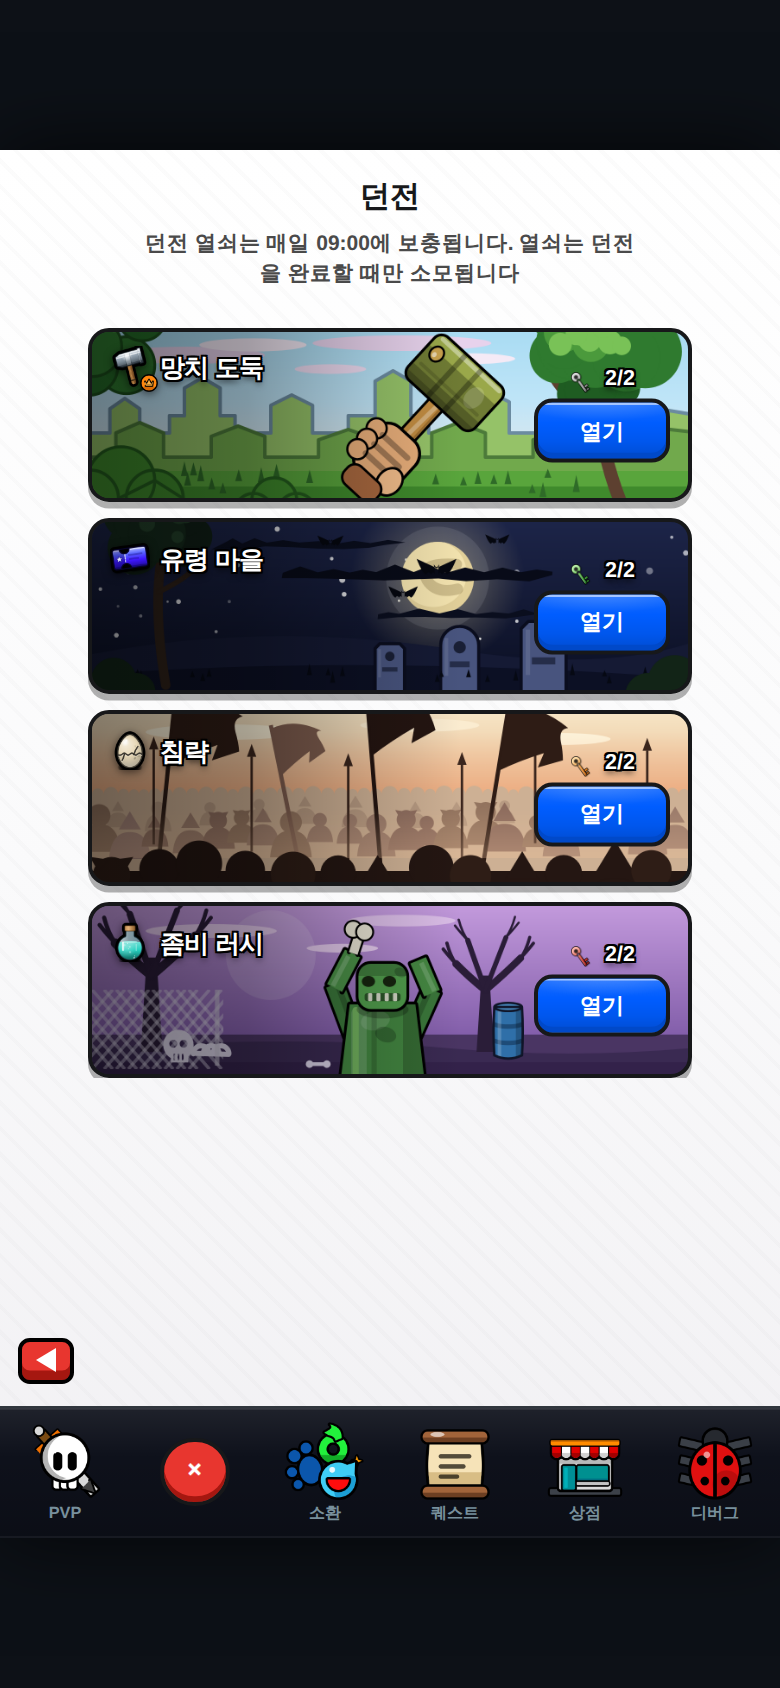
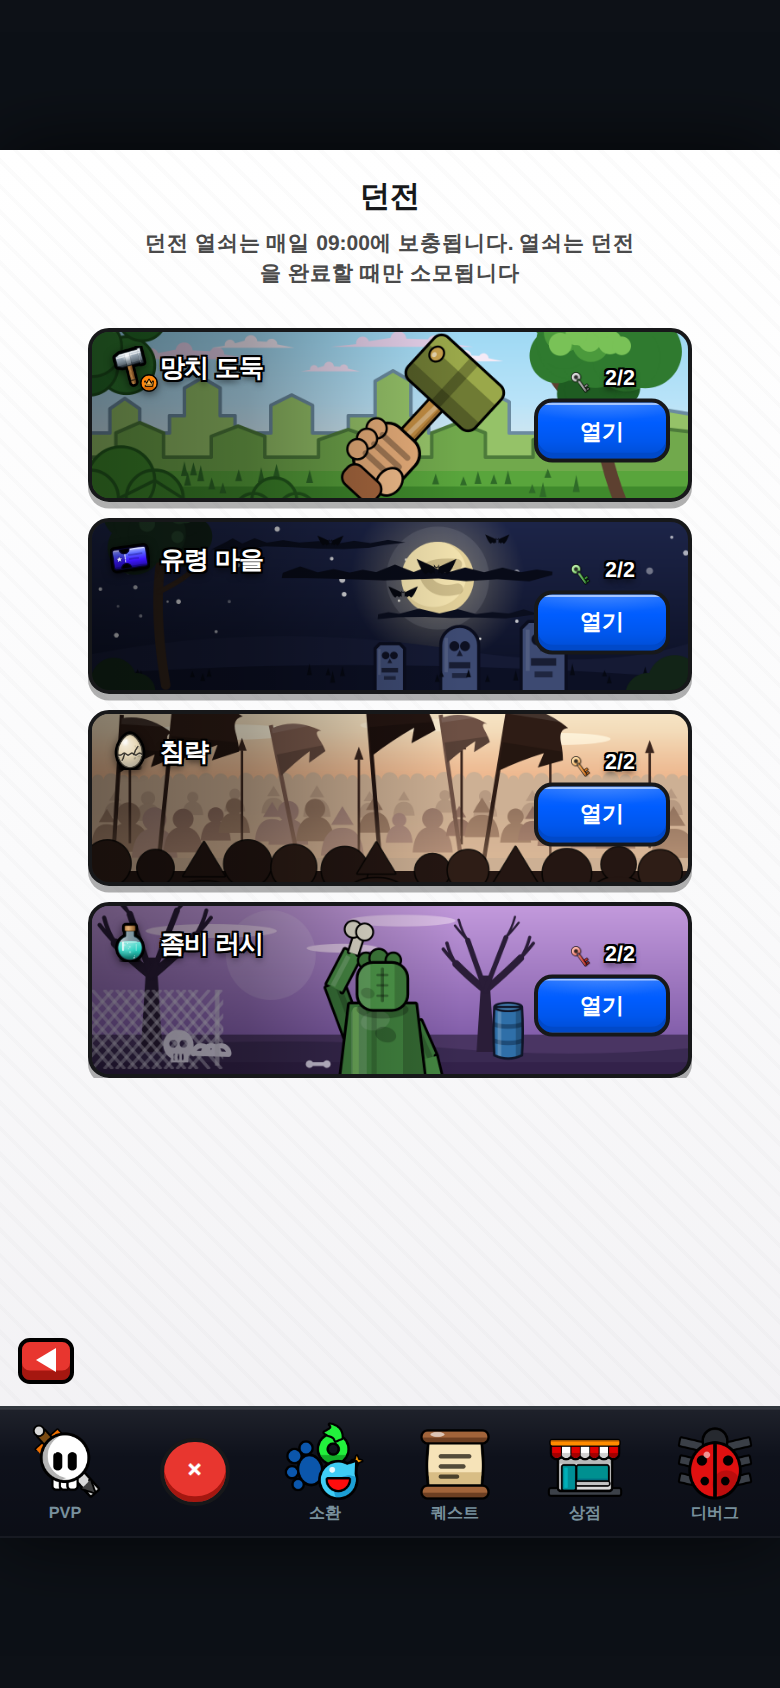
던전 행 재채점 6차 반영 — 망치 타탄 격자 제거·좀비 뒷모습 재조형·군중 0.40H 상향+앞열 키라인·배너 6장 2톤 주름·묘비 해골/RIP 각인 강화·뭉게 구름 (dungeon-row-quality)
6차 비평가(63/58, 둘 다 확대 크롭 정밀 검수) 공통 지적 반영:
⑴ 망치 머리 — 하이라이트 띠+물림 테 2줄+결 줄+스펙큘러가 교차해 '타탄 직물'로 읽힘 → 3면 셰이딩+물림 테 1줄만
⑵ 좀비 — 점눈+이빨 정면 만세('귀여운 로봇')를 원본대로 **뒷모습**으로: 얼굴 제거, 뒤통수 스티치 흉터+머리털 혹 3개+좌우 명암, 오른팔은 몸 옆으로 내림(뼈 든 왼팔만 위)
⑶ 침략 — 군중 시작선 0.48→0.40H('인파의 바다'), 앞 열 검정 키라인+어깨 폭 변주(스캘럽 무늬 해소), 배너 4→6장+천 주름 2톤(위 밝게/아래 그늘)
⑷ 묘비 — 채도 가라앉히고 해골(두 눈+코)·RIP 2줄 각인 키움 ⑸ 1행 구름을 혹 3개 뭉게 윤곽으로(타원 스티커 해소)
검증: probe-dungeons-px -0.99%p·초과 0, probe-dungeon-title-ink 4행 통과(침략 좌반 84.9), 콘솔 에러 0

diff --git a/web/js/icongen.js b/web/js/icongen.js
@@ -3672,14 +3672,24 @@ IconGen._genderSym = function (ctx, S, female) {
        ('망치가 수직으로 박힌 정지 구도 + 손이 없다'). */
     G.draw.dg_hammer = function (ctx, S) {
         const W = S * AR, H = S, R = rnd(11);
-        sky(ctx, W, H, '#a9dcf3', '#dff2ff');
-        // 구름 줄 — 원본의 분홍-라벤더 가로 스트릭. 제목(좌상단)과 겹쳐도 키라인 제목이 이긴다.
-        const cloud = (cx, cy, cw, chh, c) => fill(ctx, c, () => ctx.ellipse(cx, cy, cw, chh, 0, 0, Math.PI * 2));
-        cloud(W * 0.16, H * 0.15, W * 0.13, H * 0.050, '#e7d2ec');
-        cloud(W * 0.27, H * 0.09, W * 0.09, H * 0.038, '#f4eaf6');
-        cloud(W * 0.52, H * 0.08, W * 0.15, H * 0.045, '#e7d2ec');
-        cloud(W * 0.63, H * 0.17, W * 0.08, H * 0.032, '#f4eaf6');
-        cloud(W * 0.40, H * 0.23, W * 0.06, H * 0.028, '#eedcf2');
+        sky(ctx, W, H, '#9ed9f4', '#dff2ff');
+        /* 구름 — 납작한 타원 하나면 '분홍 스티커'로 읽힌다(비평가 6차): 혹 3~4개를 겹친 뭉게
+           윤곽 + 아래는 평평하게. 원본의 분홍-라벤더 구름 줄. */
+        const cloud = (cx, cy, cw, chh, c) => {
+            fill(ctx, c, () => {
+                ctx.moveTo(cx - cw, cy + chh * 0.5);
+                ctx.arc(cx - cw * 0.55, cy, chh * 0.9, Math.PI * 0.95, Math.PI * 1.9);
+                ctx.arc(cx - cw * 0.05, cy - chh * 0.55, chh * 1.1, Math.PI * 1.05, Math.PI * 1.98);
+                ctx.arc(cx + cw * 0.45, cy - chh * 0.10, chh * 0.95, Math.PI * 1.15, Math.PI * 2);
+                ctx.lineTo(cx + cw, cy + chh * 0.5);
+                ctx.closePath();
+            });
+        };
+        cloud(W * 0.16, H * 0.15, W * 0.11, H * 0.045, '#e7d2ec');
+        cloud(W * 0.27, H * 0.09, W * 0.07, H * 0.034, '#f4eaf6');
+        cloud(W * 0.52, H * 0.08, W * 0.12, H * 0.042, '#e7d2ec');
+        cloud(W * 0.63, H * 0.17, W * 0.06, H * 0.030, '#f4eaf6');
+        cloud(W * 0.40, H * 0.23, W * 0.05, H * 0.026, '#eedcf2');
         (() => {                                                          // 지평선 웜톤 — 하늘이 2단 그라디언트로 납작하지 않게(비평가 재채점)
             const hz = ctx.createLinearGradient(0, H * 0.42, 0, H * 0.82);
             hz.addColorStop(0, 'rgba(255,214,188,0)'); hz.addColorStop(1, 'rgba(255,214,188,.30)');
@@ -3795,14 +3805,12 @@ IconGen._genderSym = function (ctx, S, female) {
         ink(ctx, S, rrect(ctx, S, -0.160, -0.255, 0.320, 0.510, 0.050), '#6f7b34', 0.032);
         ctx.save();
         ctx.beginPath(); rrect(ctx, S, -0.160, -0.255, 0.320, 0.510, 0.050)(); ctx.clip();
+        /* ⚠ 하이라이트 띠+물림 테 2줄+결 줄+스펙큘러를 다 얹으면 가로세로 선이 교차해 **타탄
+           격자 직물**로 읽힌다(비평가 6차 2인 공통 1순위 — 확대 크롭으로 확인). 3면 셰이딩과
+           물림 테 하나만 남긴다. */
         on(ctx, rrect(ctx, S, 0.064, -0.255, 0.096, 0.510, 0), '#9aa84a');                // 위(빛 받는) 면 — local +x 가 회전 후 우상향
-        on(ctx, rrect(ctx, S, 0.126, -0.235, 0.026, 0.470, 0.013), 'rgba(255,255,255,.40)'); // 스펙큘러 라인(베벨 입체 — 비평가 재채점)
         on(ctx, rrect(ctx, S, -0.160, -0.255, 0.084, 0.510, 0), 'rgba(0,0,0,.24)');       // 아랫면 음영
-        on(ctx, rrect(ctx, S, -0.160, -0.255, 0.036, 0.510, 0), 'rgba(0,0,0,.20)');       // 아래 모서리 한 단 더
-        on(ctx, rrect(ctx, S, -0.160, -0.078, 0.320, 0.030, 0), 'rgba(0,0,0,.30)');       // 자루 물림 테
-        on(ctx, rrect(ctx, S, -0.160, 0.048, 0.320, 0.030, 0), 'rgba(0,0,0,.30)');
-        on(ctx, ell(ctx, S, 0.010, 0.140, 0.070, 0.052), 'rgba(255,255,255,.16)');        // 타격면 쪽 방사 하이라이트(재질감 — 비평가 5차)
-        on(ctx, rrect(ctx, S, -0.060, -0.230, 0.020, 0.460, 0.010), 'rgba(0,0,0,.14)');   // 머리 결 줄
+        on(ctx, rrect(ctx, S, -0.160, -0.032, 0.320, 0.064, 0), 'rgba(0,0,0,.26)');       // 자루 물림 테(하나만)
         ctx.restore();
         ink(ctx, S, ell(ctx, S, 0.052, -0.190, 0.040, 0.034), '#c9a24e', 0.024);          // 쐐기 못
         on(ctx, ell(ctx, S, 0.040, -0.198, 0.016, 0.013), 'rgba(255,255,255,.55)');       // 못 하이라이트
@@ -3893,11 +3901,14 @@ IconGen._genderSym = function (ctx, S, female) {
             const p = sq
                 ? () => { ctx.moveTo(x, y + h); ctx.lineTo(x, y + w * 0.28); ctx.lineTo(x + w * 0.16, y + w * 0.12); ctx.lineTo(x + w * 0.84, y + w * 0.12); ctx.lineTo(x + w, y + w * 0.28); ctx.lineTo(x + w, y + h); ctx.closePath(); }
                 : () => { ctx.moveTo(x, y + h); ctx.lineTo(x, y + w * 0.5); ctx.arc(x + w * 0.5, y + w * 0.5, w * 0.5, Math.PI, 0); ctx.lineTo(x + w, y + h); ctx.closePath(); };
-            ctx.beginPath(); p(); ctx.fillStyle = '#48547e'; ctx.fill();
+            ctx.beginPath(); p(); ctx.fillStyle = '#3d4a72'; ctx.fill();   // 밝은 회청은 밤 무드에서 튄다(비평가 6차) — 한 단 가라앉힘
             ctx.beginPath(); p(); ctx.strokeStyle = '#0a0d1e'; ctx.lineWidth = H * 0.018; ctx.stroke();
-            fill(ctx, 'rgba(10,13,30,.75)', () => ctx.arc(x + w * 0.5, y + w * 0.55, w * 0.16, 0, Math.PI * 2));            // 해골 눈구멍(원형 각인)
-            fill(ctx, 'rgba(10,13,30,.55)', () => ctx.rect(x + w * 0.24, y + w * 0.92, w * 0.52, h * 0.085));               // RIP 줄 각인
-            fill(ctx, 'rgba(255,255,255,.10)', () => ctx.rect(x + w * 0.10, y + w * 0.30, w * 0.10, h * 0.55));             // 왼쪽 세로 하이라이트
+            fill(ctx, 'rgba(8,10,24,.9)', () => ctx.arc(x + w * 0.36, y + w * 0.52, w * 0.13, 0, Math.PI * 2));             // 해골 각인(두 눈 + 코)
+            fill(ctx, 'rgba(8,10,24,.9)', () => ctx.arc(x + w * 0.64, y + w * 0.52, w * 0.13, 0, Math.PI * 2));
+            fill(ctx, 'rgba(8,10,24,.75)', () => { ctx.moveTo(x + w * 0.5, y + w * 0.62); ctx.lineTo(x + w * 0.42, y + w * 0.78); ctx.lineTo(x + w * 0.58, y + w * 0.78); });
+            fill(ctx, 'rgba(8,10,24,.7)', () => ctx.rect(x + w * 0.22, y + w * 0.94, w * 0.56, h * 0.09));                  // RIP 줄 각인
+            fill(ctx, 'rgba(8,10,24,.55)', () => ctx.rect(x + w * 0.30, y + w * 0.94 + h * 0.16, w * 0.40, h * 0.07));
+            fill(ctx, 'rgba(255,255,255,.10)', () => ctx.rect(x + w * 0.10, y + w * 0.30, w * 0.09, h * 0.50));             // 왼쪽 세로 하이라이트
         };
         stone(W * 0.475, H * 0.70, H * 0.17, H * 0.30, true);              // 셋째(작게, 각진 어깨) — 바닥 허전함 보완(비평가 4차)
         stone(W * 0.585, H * 0.62, H * 0.22, H * 0.40);
@@ -3952,34 +3963,42 @@ IconGen._genderSym = function (ctx, S, female) {
             hz.addColorStop(0, 'rgba(244,146,100,0)'); hz.addColorStop(1, 'rgba(244,146,100,.38)');   // 새벽 주황-핑크를 진하게(비평가 3차 '워시아웃')
             ctx.fillStyle = hz; ctx.fillRect(0, 0, W, H);
         })();
-        // 뒤 열 — 연갈 띠, 위 가장자리가 투구 혹(반원 연쇄)
+        /* 뒤 열 — 연갈 띠, 위 가장자리가 투구 혹(반원 연쇄). ⚠ 0.48H 에서 시작하면 하늘이 행의
+           절반을 먹어 '인파의 바다'(원본)가 얇은 띠로 죽는다(비평가 6차) — 0.40H 까지 올린다. */
         (() => {
-            ctx.beginPath(); ctx.moveTo(0, H); ctx.lineTo(0, H * 0.48);
+            ctx.beginPath(); ctx.moveTo(0, H); ctx.lineTo(0, H * 0.40);
             let x = 0;
-            while (x < W) { const r = H * (0.028 + R() * 0.022); ctx.arc(x + r, H * 0.48, r, Math.PI, 0); x += r * 2; }
+            while (x < W) { const r = H * (0.028 + R() * 0.022); ctx.arc(x + r, H * 0.40, r, Math.PI, 0); x += r * 2; }
             ctx.lineTo(W, H); ctx.closePath(); ctx.fillStyle = '#cdb094'; ctx.fill();
         })();
-        /* 인물 한 명 — 머리(kind 0=둥근 투구 1=뾰족 투구 2=뿔 투구) + 어깨.
+        /* 인물 한 명 — 머리(kind 0=둥근 투구 1=뾰족 투구 2=뿔 투구) + 어깨. oc 를 주면 검정
+           키라인을 두른다(앞 열 — 윤곽 없는 균일 반원 반복은 '스캘럽 무늬'로 읽힌다, 비평가 6차).
            ⚠ 어깨를 좁고 높은 아치로 세우면 'A자 천막' 열이 된다(1차 시안) — 어깨는 넓고 낮게,
            뾰족 투구도 낮게. 몸이 옆 사람과 절반쯤 겹쳐야 '무리'가 되고, 머리 혹만 갈리면 된다. */
-        const figure = (x, y, s, c, kind) => {
-            const r = H * 0.055 * s;
-            if (kind === 1) fill(ctx, c, () => { ctx.moveTo(x - r, y + r * 0.5); ctx.lineTo(x, y - r * 1.15); ctx.lineTo(x + r, y + r * 0.5); });
-            else fill(ctx, c, () => ctx.arc(x, y, r, 0, Math.PI * 2));
+        const figure = (x, y, s, c, kind, oc, wf) => {
+            const r = H * 0.055 * s, w = wf || 1.9;
+            const paths = [];
+            if (kind === 1) paths.push(() => { ctx.moveTo(x - r, y + r * 0.5); ctx.lineTo(x, y - r * 1.15); ctx.lineTo(x + r, y + r * 0.5); ctx.closePath(); });
+            else paths.push(() => ctx.arc(x, y, r, 0, Math.PI * 2));
             if (kind === 2) {                                              // 양쪽 뿔 — 크고 잦으면 '고양이 귀'로 읽힌다(비평가 4차): 짧게
-                fill(ctx, c, () => { ctx.moveTo(x - r * 0.7, y - r * 0.2); ctx.lineTo(x - r * 1.15, y - r * 1.0); ctx.lineTo(x - r * 0.15, y - r * 0.85); });
-                fill(ctx, c, () => { ctx.moveTo(x + r * 0.7, y - r * 0.2); ctx.lineTo(x + r * 1.15, y - r * 1.0); ctx.lineTo(x + r * 0.15, y - r * 0.85); });
+                paths.push(() => { ctx.moveTo(x - r * 0.7, y - r * 0.2); ctx.lineTo(x - r * 1.15, y - r * 1.0); ctx.lineTo(x - r * 0.15, y - r * 0.85); ctx.closePath(); });
+                paths.push(() => { ctx.moveTo(x + r * 0.7, y - r * 0.2); ctx.lineTo(x + r * 1.15, y - r * 1.0); ctx.lineTo(x + r * 0.15, y - r * 0.85); ctx.closePath(); });
             }
-            fill(ctx, c, () => { ctx.moveTo(x - r * 1.9, y + r * 3.2); ctx.quadraticCurveTo(x - r * 1.7, y + r * 0.7, x, y + r * 0.75); ctx.quadraticCurveTo(x + r * 1.7, y + r * 0.7, x + r * 1.9, y + r * 3.2); ctx.closePath(); });   // 어깨(넓고 낮게)
+            paths.push(() => { ctx.moveTo(x - r * w, y + r * 3.2); ctx.quadraticCurveTo(x - r * (w - 0.2), y + r * 0.7, x, y + r * 0.75); ctx.quadraticCurveTo(x + r * (w - 0.2), y + r * 0.7, x + r * w, y + r * 3.2); ctx.closePath(); });   // 어깨(넓고 낮게)
+            if (oc) {
+                ctx.strokeStyle = oc; ctx.lineWidth = H * 0.016; ctx.lineJoin = 'round';
+                paths.forEach(p => { ctx.beginPath(); p(); ctx.stroke(); });
+            }
+            paths.forEach(p => fill(ctx, c, p));
         };
-        for (let i = 0; i < 12; i++)                                       // 원경-중경 사이 반층 — 레이어 한 겹 더(비평가 5차)
-            figure(W * (i / 12 + 0.02 + R() * 0.03), H * (0.525 + R() * 0.04), 0.55 + R() * 0.25, '#b79a82', R() < 0.6 ? 0 : 1);
+        for (let i = 0; i < 14; i++)                                       // 원경-중경 사이 반층 — 레이어 한 겹 더(비평가 5차)
+            figure(W * (i / 14 + 0.015 + R() * 0.03), H * (0.465 + R() * 0.04), 0.55 + R() * 0.25, '#b79a82', R() < 0.6 ? 0 : 1);
         /* 중간 열 — 뒤(#cdb094)와 앞(#241612) 사이의 **명도 중간층**이라 밝은 모브 계열이어야
            대기원근 3단이 선다(비평가 4차 '단일 톤 플랫 매스'). 뿔 투구는 1/8 로 드물게. */
         const MIDC = ['#9b7b6b', '#8d6c5e', '#a5847a', '#93745f'];         // 색·키·크기를 함께 흔들어 타일링 패턴을 깬다
         for (let i = 0; i < 22; i++) {
             const k = R();
-            figure(W * (i / 22 + 0.010 + R() * 0.02), H * (0.575 + R() * 0.085), 0.72 + R() * 0.55, MIDC[(R() * 4) | 0], k < 0.5 ? 0 : (k < 0.875 ? 1 : 2));
+            figure(W * (i / 22 + 0.010 + R() * 0.02), H * (0.545 + R() * 0.085), 0.72 + R() * 0.55, MIDC[(R() * 4) | 0], k < 0.5 ? 0 : (k < 0.875 ? 1 : 2));
         }
         // 창 — 군중 사이에서 올라오는 자루+창끝
         for (let i = 0; i < 6; i++) {
@@ -3992,7 +4011,7 @@ IconGen._genderSym = function (ctx, S, female) {
         const banner = (x, top, wd, ht, tilt, c) => {
             ctx.save(); ctx.translate(x, top); ctx.rotate(tilt);
             fill(ctx, c, () => ctx.rect(-H * 0.012, 0, H * 0.024, H * 1.05));
-            fill(ctx, c, () => {                    // 천에는 곡률(펄럭임) — 직선 삼각형이면 정적으로 죽는다(비평가 재채점)
+            const cloth = () => {                   // 천에는 곡률(펄럭임) — 직선 삼각형이면 정적으로 죽는다(비평가 재채점)
                 ctx.moveTo(0, H * 0.02);
                 ctx.quadraticCurveTo(wd * 0.50, -H * 0.015, wd, H * 0.09);
                 ctx.quadraticCurveTo(wd * 0.85, ht * 0.26, wd * 0.92, ht * 0.44);
@@ -4000,10 +4019,19 @@ IconGen._genderSym = function (ctx, S, female) {
                 ctx.lineTo(wd * 0.62, ht * 0.86);   // 찢긴 자락(얕게)
                 ctx.lineTo(wd * 0.68, ht * 0.64);
                 ctx.quadraticCurveTo(wd * 0.32, ht * 0.80, 0, ht);
-            });
+                ctx.closePath();
+            };
+            fill(ctx, c, cloth);
+            ctx.save();                             // 천 주름 2톤 — 단색 실루엣이면 접힘이 없다(비평가 6차)
+            ctx.beginPath(); cloth(); ctx.clip();
+            ctx.fillStyle = 'rgba(0,0,0,.20)'; ctx.fillRect(-wd, ht * 0.58, wd * 3, ht);
+            ctx.fillStyle = 'rgba(255,255,255,.10)'; ctx.fillRect(-wd, 0, wd * 3, ht * 0.16);
+            ctx.restore();
             ctx.restore();
         };
         banner(W * 0.30, H * 0.08, H * 0.28, H * 0.30, -0.20, '#7d5c4e');  // 중경 밝은 배너(군중 앞이라 깊이가 갈린다)
+        banner(W * 0.585, H * 0.02, H * 0.26, H * 0.28, -0.14, '#6d5044');
+        banner(W * 0.05, H * 0.02, H * 0.30, H * 0.34, 0.06, '#2e1c15');
         banner(W * 0.14, -H * 0.10, H * 0.40, H * 0.42, 0.10, '#2e1c15');
         banner(W * 0.46, -H * 0.14, H * 0.38, H * 0.40, -0.08, '#241511');
         banner(W * 0.70, -H * 0.05, H * 0.36, H * 0.40, 0.16, '#2e1c15');
@@ -4013,9 +4041,9 @@ IconGen._genderSym = function (ctx, S, female) {
             ctx.fillStyle = hz; ctx.fillRect(0, H * 0.40, W, H * 0.45);
         })();
         fill(ctx, '#241612', () => ctx.rect(0, H * 0.925, W, H * 0.08));   // 앞 열 바탕 띠 — 이게 없으면 머리들이 '떠 있는 검은 공'이 된다(어깨가 크롭 아래라 몸이 안 이어진다)
-        for (let i = 0; i < 13; i++) {                                     // 앞 열 — 몸이 이어진 암갈 덩어리에서 머리 혹이 갈린다
+        for (let i = 0; i < 13; i++) {                                     // 앞 열 — 키라인 + 폭 변주(균일 반원 반복 = 스캘럽 무늬, 비평가 6차)
             const k = R();
-            figure(W * (i / 13 + 0.015 + R() * 0.025), H * (0.875 + R() * 0.08), 1.75 + R() * 0.8, i % 4 ? '#241612' : '#2e1d16', k < 0.55 ? 0 : (k < 0.9 ? 1 : 2));   // 머리가 하단 크롭에 잘리면 삼각 톱니로 읽힌다 — 0.875H
+            figure(W * (i / 13 + 0.015 + R() * 0.025), H * (0.875 + R() * 0.08), 1.75 + R() * 0.8, i % 4 ? '#241612' : '#2e1d16', k < 0.55 ? 0 : (k < 0.9 ? 1 : 2), 'rgba(5,3,2,.9)', 1.6 + R() * 0.7);   // 머리가 하단 크롭에 잘리면 삼각 톱니로 읽힌다 — 0.875H
         }
     };
 
@@ -4131,10 +4159,11 @@ IconGen._genderSym = function (ctx, S, female) {
         on(ctx, bar(ctx, S, 1.532, 0.768, 1.428, 0.488, 0.034), 'rgba(0,0,0,.20)');               // 위팔 아랫면 음영(단일톤 방지 — 비평가 B)
         ink(ctx, S, bar(ctx, S, 1.404, 0.490, 1.508, 0.290, 0.098), '#4a8f47', 0.030);            // 왼 아래팔(위로)
         on(ctx, bar(ctx, S, 1.394, 0.478, 1.484, 0.306, 0.028), 'rgba(255,255,255,.18)');         // 아래팔 빛면
-        ink(ctx, S, bar(ctx, S, 1.852, 0.760, 1.968, 0.500, 0.104), '#3a763a', 0.030);            // 오른 위팔
-        on(ctx, bar(ctx, S, 1.834, 0.770, 1.946, 0.520, 0.034), 'rgba(0,0,0,.20)');
-        ink(ctx, S, bar(ctx, S, 1.968, 0.520, 1.888, 0.330, 0.098), '#458742', 0.030);            // 오른 아래팔
-        on(ctx, bar(ctx, S, 1.982, 0.508, 1.906, 0.344, 0.028), 'rgba(255,255,255,.16)');
+        /* 오른팔은 **내린다** — 양팔 만세는 원본(한 팔만 뼈를 들고 다른 팔은 내린 뒷모습)과 달리
+           '귀여운 만세 로봇'으로 읽힌다(비평가 6차 2인 공통). */
+        ink(ctx, S, bar(ctx, S, 1.858, 0.700, 1.948, 0.905, 0.100), '#3a763a', 0.030);            // 오른 위팔(아래로)
+        on(ctx, bar(ctx, S, 1.876, 0.712, 1.958, 0.895, 0.032), 'rgba(0,0,0,.20)');
+        ink(ctx, S, bar(ctx, S, 1.948, 0.895, 1.988, 1.060, 0.092), '#458742', 0.030);            // 오른 아래팔(몸 옆으로 늘어짐)
         const torso = poly(ctx, S, [[1.440, 1.02], [1.492, 0.585], [1.872, 0.585], [1.924, 1.02]]);
         ink(ctx, S, torso, '#41823f', 0.032);
         ctx.save();
@@ -4147,17 +4176,21 @@ IconGen._genderSym = function (ctx, S, female) {
         on(ctx, ell(ctx, S, 1.700, 0.760, 0.062, 0.044, 0.3), 'rgba(0,0,0,.22)');                 // 썩은 얼룩
         on(ctx, rrect(ctx, S, 1.618, 0.585, 0.030, 0.440, 0), 'rgba(0,0,0,.16)');                 // 찢어진 옷자락 이음
         ctx.restore();
-        const head = rrect(ctx, S, 1.542, 0.350, 0.278, 0.262, 0.072);
+        /* 머리 = **뒷모습**(비평가 6차 2인 공통: 원본은 얼굴이 안 보이는 뒷모습 실루엣인데 점눈+
+           이빨 정면 얼굴은 '귀여운 로봇'이 된다). 눈·입·이빨 대신 뒤통수 스티치 흉터 + 헝클어진
+           머리털 혹 + 썩은 얼룩으로 좀비를 세운다. */
+        const head = rrect(ctx, S, 1.542, 0.350, 0.278, 0.262, 0.085);
+        [[1.586, 0.332, 0.040], [1.660, 0.318, 0.048], [1.744, 0.330, 0.038]].forEach(([hx, hy, hr]) =>   // 머리털 혹(키라인째)
+            ink(ctx, S, circle(ctx, S, hx, hy, hr), '#3f7d3c', 0.026));
         ink(ctx, S, head, '#4f9a4b', 0.032);
         ctx.save();
         ctx.beginPath(); head(); ctx.clip();
-        on(ctx, rrect(ctx, S, 1.542, 0.350, 0.278, 0.070, 0), 'rgba(0,0,0,.20)');                 // 눈두덩 그늘
-        on(ctx, ell(ctx, S, 1.600, 0.452, 0.038, 0.032), '#16240f');                              // 움푹한 눈
-        on(ctx, ell(ctx, S, 1.722, 0.452, 0.038, 0.032), '#16240f');
-        on(ctx, ell(ctx, S, 1.786, 0.400, 0.036, 0.026, 0.4), 'rgba(0,0,0,.20)');                 // 썩은 얼룩
-        on(ctx, rrect(ctx, S, 1.578, 0.520, 0.208, 0.046, 0.014), 'rgba(0,0,0,.46)');             // 입
-        [1.598, 1.646, 1.694, 1.742].forEach(x =>                                                 // 드러난 이
-            on(ctx, rrect(ctx, S, x, 0.520, 0.024, 0.046, 0.006), 'rgba(236,234,221,.85)'));
+        on(ctx, rrect(ctx, S, 1.542, 0.350, 0.070, 0.262, 0), 'rgba(255,255,255,.12)');           // 왼쪽 빛면
+        on(ctx, rrect(ctx, S, 1.752, 0.350, 0.068, 0.262, 0), 'rgba(0,0,0,.18)');                 // 오른쪽 음영
+        on(ctx, rrect(ctx, S, 1.672, 0.372, 0.018, 0.200, 0.009), 'rgba(0,0,0,.34)');             // 뒤통수 스티치 흉터
+        [0.408, 0.468, 0.528].forEach(y =>
+            on(ctx, rrect(ctx, S, 1.646, y, 0.070, 0.014, 0.007), 'rgba(0,0,0,.30)'));
+        on(ctx, ell(ctx, S, 1.596, 0.520, 0.040, 0.030, 0.3), 'rgba(0,0,0,.18)');                 // 썩은 얼룩
         ctx.restore();
         // 왼손에 쥔 뼈다귀
         ink(ctx, S, bar(ctx, S, 1.512, 0.290, 1.552, 0.165, 0.052), '#e6e2d2', 0.024);
